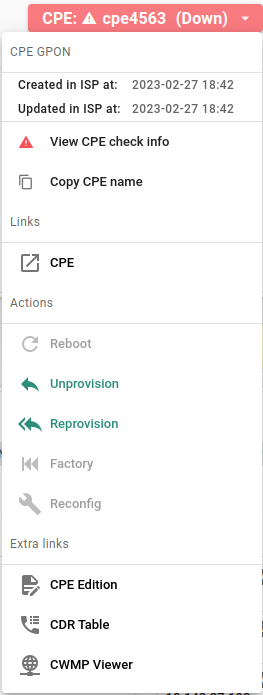
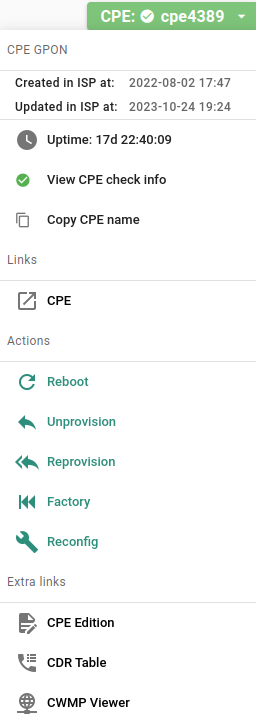
Add CPE overview to the guide

Changed region(s): [[0.0, 0.0, 1.0, 1.0], [0.1875, 0.2417, 0.6562, 0.3324]]

diff --git a/docs/es/krill2/monitoring/cpe.md b/docs/es/krill2/monitoring/cpe.md
@@ -24,3 +24,76 @@ En la ficha se reúne toda la información obtenida por los diferentes servicios
 Desde la ficha se llevan a cabo las acciones sobre los CPEs de reinicio, provisión/desprovisión y reconfiguración. También la de puesta a fábrica, en aquellos equipos que lo permitan.
 
 <p align="center"><img src="/img/krill2/monitoring/host/-0001.png" width="252"></p>
+
+Desde el desplegable del equipo tenemos disponible información de cuando fue creado y cuando fue actualizado por última vez el equipo y debajo continua mostrando diversa información:
+
+- **Uptime**:  Muestra el tiempo que está operando sin interrupciones desde su último reinicio o apagado
+- **View CPE check info**: Habilita un desplegable en la parte de derecha, en la que muestra información del check
+- **Copy CPE name**: Copia en el portapapeles el nombre del equipo
+- **Links**: Enlace a....
+- **Reboot**: Reinicia la ONT.
+- **Unprovision**: Desprovisiona la ONT. Elimina sus services ports de la OLT.
+- **Reprovision**: Reprovisiona la ONT. Elimina sus services ports de la OLT para justo después insertarlos de nuevo.
+- **Factory**: Pone a fábrica la ONT.
+- **Reconfig**: Reconfigura la ONT con una sesión ACS.
+- **CPE Edition**: Abre en otra pestaña la parte Customer de ese CPE de Krill.
+- **Show in worldmap**: Abre en otra pestaña una búsqueda con ese CPE en la vista Worldmap de Krill.
+- **CDR Table**: Filtra las llamadas del teléfono asociado a ese CPE en la vista CDR de Krill.
+- **CWMP Table**: Filtra las sesiones tr069 de ese CPE en la vista cwmp de Krill.
+
+La ficha se compone de diferentes partes, es modular. Cada ficha mostrará la información necesaria para cada tipo de equipo. Información asociada a los diferentes servicios del host.
+
+<p align="center"><img src="/img/krill2/monitoring/host/-0002.png" width=""></p>
+
+## CPE Overview
+
+Es el apartado principal e inicial de la ficha para los CPEs, en ella tenemos el histórico, tareas, los dispositivos conectados y timeline de los servicios del host. También los datos técnicos, de registro, del DHCP y telefonía a modo resumen.
+
+### Información principal
+
+Los hosts pueden contener datos técnicos y de registro, así como información de IPs y telefonía. Todos ellos se encuentran agrupados en diversas cajas organizando toda esta información.
+
+### Services Timeline
+
+Cada Host de tipo CPE puede contener diferentes servicios que incluyen los úlitmos mensajes de salida así como sus métricas (cuando estén disponibles), todo ello es renderizado en un Timeline con el histórico de cada uno, añadiendo los eventos más importantes (como IPs o eventos de provisión).
+
+Esta es una lista de los servicios más uasdos agrupados por tecnología:
+
+**GPON**:
+* **dhcp**: Devuelve la información de la IP (solamente si la IP ha sido gestionada internamente por el servidor DHCP de Phicus)
+* **pppoe/ipoe**: Obtiene la información del accounting de Radius (solo si la sesión ha sido proporcionada internamente por el servidor Radius de Phicus)
+* **provision**: Retorna la información de registro (solo si la provisión es realizada por Krill)
+* **qos**: Obtiene la calidad de servicio, snr (el ratio de señal/ruido) y otros parámetros (solo si Krill monitoriza el QoS del CPE)
+* **tr069**: Retorna la información de las sesiones ACS (solo si el CPE implementa el protocolo TR069)
+* **txrx**: Obtiene los parámetros de transmisión y recepción de señal
+* **voice[X]**: Relacionado con el registro de la PBX (soli si el CPE tiene soporte de Voz, la [X] está relacionada con el número del puerto POTS)
+
+**DOCSIS**:
+* **docsis**: Obtiene los canáles inválidos para downstream/upstream.
+* **dhcp**: Devuelve la información de la IP (solamente si la IP ha sido gestionada internamente por el servidor DHCP de Phicus)
+* **downstream**: Devuelve los niveles de señal en bajada
+* **provision**: Retirna la información de registro (solo si la provisión es realizada por Krill)
+* **qos**: Obtiene la calidad de servicio, snr (el ratio de señal de ruido) y otros parámetros (solo si Krill monitoriza el QoS del CPE)
+* **tr069**: Retorna la información de las sesiones ACS (solo si el CPE implementa el protocolo TR069)
+* **upstream**: Devuelve los niveles de señal en subida
+* **voice[X]**: Relacionado con el registro de la PBX (soli si el CPE tiene soporte de Voz, la [X] está relacionada con el número del puerto POTS)
+
+**G.HN**:
+* **dhcp**: Devuelve la información de la IP (solamente si la IP ha sido gestionada internamente por el servidor DHCP de Phicus)
+* **pppoe**: Obtiene la información del accounting de Radius (solo si la sesión ha sido proporcionada internamente por el servidor Radius de Phicus)
+* **qos**: Obtiene la calidad de servicio, snr (el ratio de señal de ruido) y otros parámetros (solo si Krill monitoriza el QoS del CPE)
+* **setup**: Retorna la longitud del cable y el snr (el ratio de señal/ruido)
+* **tr069**: Retorna la información de las sesiones ACS (solo si el CPE implementa el protocolo TR069)
+* **voice[X]**: Relacionado con el registro de la PBX (soli si el CPE tiene soporte de Voz, la [X] está relacionada con el número del puerto POTS)
+
+**WIMAX**:
+* **dhcp**: Devuelve la información de la IP (solamente si la IP ha sido gestionada internamente por el servidor DHCP de Phicus)
+* **info**: Obtiene el modelo del CPE y la versión de firmware
+* **downstream**: Devuelve los niveles de señal en bajada
+* **pppoe**: Obtiene la información del accounting de Radius (solo si la sesión ha sido proporcionada internamente por el servidor Radius de Phicus)
+* **qos**: Obtiene la calidad de servicio, snr (el ratio de señal de ruido) y otros parámetros (solo si Krill monitoriza el QoS del CPE)
+* **radio**: Obtiene el tiempo de la señal en el aire y los datos tanto de subida como de bajada
+* **setup**: Retorna la distancia hasta el AP así como el tiempo que está UP
+* **tr069**: Retorna la información de las sesiones ACS (solo si el CPE implementa el protocolo TR069)
+* **upstream**: Devuelve los niveles de señal en subida
+* **voice[X]**: Relacionado con el registro de la PBX (soli si el CPE tiene soporte de Voz, la [X] está relacionada con el número del puerto POTS)
